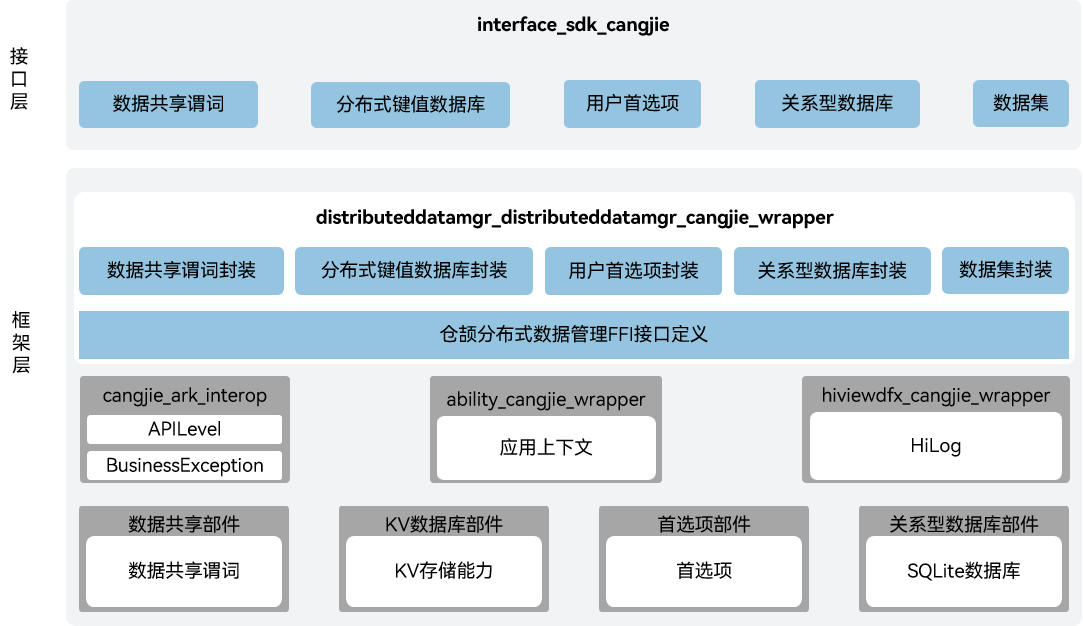
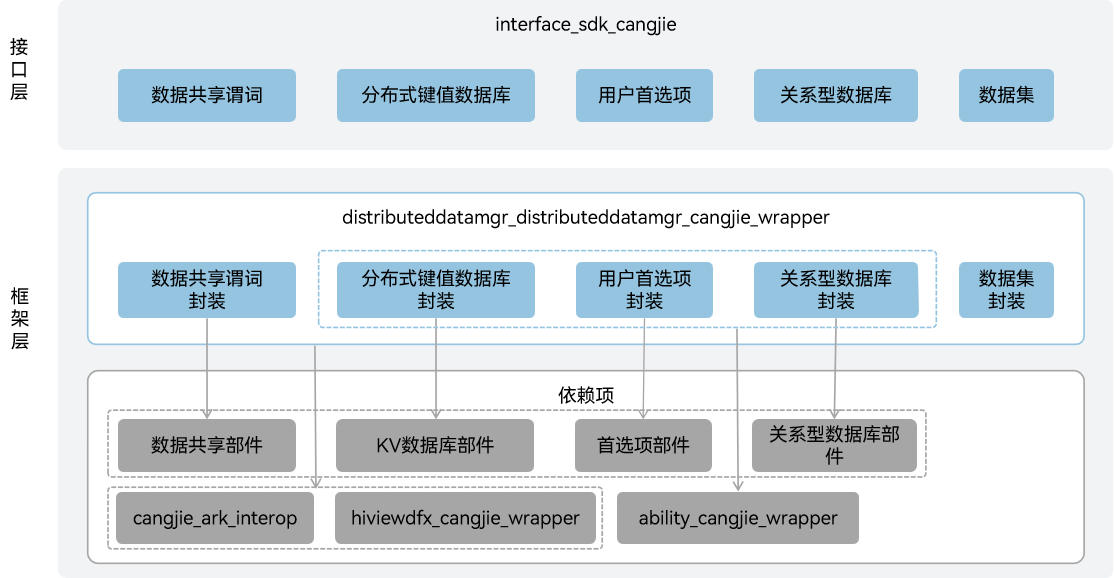
fix readme

diff --git a/README_zh.md b/README_zh.md
@@ -1,30 +1,42 @@
-# 分布式数据管理仓颉接口
+# 分布式数据管理仓颉封装
 
 ## 简介
 
-分布式数据管理仓颉接口是在OpenHarmony上基于分布式数据管理子系统能力之上封装的仓颉API。分布式数据管理子系统支持单设备的各种结构化数据的持久化，以及跨设备之间数据的同步、共享功能。开发者通过分布式数据管理仓颉，能够方便地完成应用程序数据在不同终端设备间的无缝衔接，满足用户跨设备使用数据的一致性体验。当前开发的分布式数据管理仓颉接口仅支持standard设备。
+分布式数据管理仓颉封装是在OpenHarmony上面对开发者使用仓颉语言进行应用开发时提供的各种结构化数据的持久化，以及跨设备之间数据的同步、共享功能。开发者通过分布式数据管理仓颉封装，能够方便地完成应用程序数据在不同终端设备间的无缝衔接，满足用户跨设备使用数据的一致性体验。当前开发的分布式数据管理仓颉封装仅支持standard设备。
 
 ## 系统架构
 
-![分布式数据管理仓颉接口架构图](figures/distributeddatamgr_cangjie_wrapper_architecture.png)
+**图 1**  分布式数据管理仓颉封装架构图
 
-**图 1**  分布式数据管理仓颉接口架构图
+![分布式数据管理仓颉封装架构图](figures/distributeddatamgr_cangjie_wrapper_architecture.png)
 
 如架构图所示：
 
-- 数据共享谓词：提供用于实现不同查询方法的数据共享谓词。
-- 分布式键值数据库：提供不同设备间数据库的分布式协同能力。
-- 用户首选项：提供Key-Value键值型的数据处理能力。
-- 关系型数据库：提供了一套完整的本地数据库管理机制。
-- 数据集：提供向数据库插入的数据集合。
-- 分布式数据管理FFI接口定义：定义C语言互操作仓颉接口，用于实现仓颉分布式数据管理能力。
-- 数据共享部件：提供数据共享谓词能力，封装C语言接口提供给仓颉进行互操作。
-- KV数据库部件：提供不同设备间数据库的分布式协同能力 ，封装C语言接口提供给仓颉进行互操作。
-- 首选项部件：提供Key-Value键值型的数据处理能力，封装C语言接口提供给仓颉进行互操作。
-- 关系型数据库部件：提供本地数据库管理机制，封装C语言接口提供给仓颉进行互操作。
-- ability_cangjie_wrapper：负责提供应用上下文接口，用于访问当前应用的数据库资源等。
-- hiviewdfx_cangjie_wrapper：负责提供日志接口，用于在关键路径打印日志。
-- cangjie_ark_interop：负责提供仓颉注解定义，用于对API进行标注，以及提供抛向用户的BusinessException异常类定义。
+接口层：
+
+- 数据共享谓词：面向开发者提供用于实现不同查询方法的数据共享谓词。
+- 分布式键值数据库：面向开发者提供键值对数据管理能力。
+- 用户首选项：面向开发者提供轻量级Key-Value操作，支持本地应用存储少量数据。
+- 关系型数据库：面向开发者提供了一套基于SQLite组件的完整的对本地数据库进行管理的机制。
+- 数据集：面向开发者提供可向数据库插入的数据集合。
+
+框架层：
+
+- 数据共享谓词封装：基于底层数据共享部件，实现了查询数据库中数据所使用的筛选条件即谓词，利用谓词可以进行数据的更新、删除和查询。
+- 分布式键值数据库封装：基于底层KV数据库部件，实现不同设备间数据库的分布式协同能力，能够将数据保存到分布式键值数据库中，并可对分布式键值数据库中的数据进行增加、删除、修改、查询、端端同步等操作。
+- 用户首选项封装：基于底层首选项部件，实现Key-Value键值型的数据处理能力，支持持久化轻量级数据，并对其修改和查询。。
+- 关系型数据库封装：基于底层关系型数据库部件，实现了一种基于关系模型来管理数据的数据库，提供了一系列的增、删、改、查等接口，也可以直接运行用户输入的SQL语句来满足复杂的场景需要。
+- 数据集封装：实现了仓颉应用向数据库插入的数据集合。
+
+架构图中依赖部件引入说明：
+
+- 数据共享部件：数据共享谓词封装依赖数据共享部件，用于实现查询数据库中数据所使用的筛选条件。
+- KV数据库部件：分布式键值数据库封装依赖KV数据库部件，用于实现不同设备间数据库的分布式协同能力。
+- 首选项部件：用户首选项封装依赖首选项部件，用于实现轻量级的本地Key-Value键值型的数据处理能力。
+- 关系型数据库部件：关系型数据库封装依赖关系型数据库部件，用于实现本地关系型数据库管理机制。
+- ability_cangjie_wrapper：分布式键值数据库封装、用户首选项封装以及关系型数据库封装依赖ability_cangjie_wrapper的应用上下文能力，用于访问当前应用的数据库资源等。
+- hiviewdfx_cangjie_wrapper：依赖hiviewdfx_cangjie_wrapper提供的HiLog日志能力，用于在关键路径打印日志。
+- cangjie_ark_interop：依赖cangjie_ark_interop提供的仓颉注解类定义和BusinessException异常类定义，用于对API进行标注，及在错误分支向用户抛出异常。
 
 ## 目录
 
@@ -51,13 +63,25 @@ foundation/communication/netmanager_cangjie_wrapper
 
 ## 使用说明
 
-如架构图所示，分布式数据管理仓颉接口提供了以下功能：
+如架构图所示，分布式数据管理仓颉封装提供了以下功能：
 
 - 数据共享谓词。
 - 分布式键值数据库。
 - 用户首选项。
 - 关系型数据库。
 - 数据集。
+
+分布式数据管理相关接口请参见
+
+1. [数据共享谓词API文档](https://gitcode.com/openharmony-sig/arkcompiler_cangjie_ark_interop/blob/master/doc/API_Reference/source_zh_cn/apis/ArkData/cj-apis-data_share_predicates.md)
+2. [分布式键值数据库API文档](https://gitcode.com/openharmony-sig/arkcompiler_cangjie_ark_interop/blob/master/doc/API_Reference/source_zh_cn/apis/ArkData/cj-apis-distributed_kv_store.md)
+3. [用户首选项API文档](https://gitcode.com/openharmony-sig/arkcompiler_cangjie_ark_interop/blob/master/doc/API_Reference/source_zh_cn/apis/ArkData/cj-apis-preferences.md)
+4. [关系型数据库API文档](https://gitcode.com/openharmony-sig/arkcompiler_cangjie_ark_interop/blob/master/doc/API_Reference/source_zh_cn/apis/ArkData/cj-apis-relational_store.md)
+5. [数据集API文档](https://gitcode.com/openharmony-sig/arkcompiler_cangjie_ark_interop/blob/master/doc/API_Reference/source_zh_cn/apis/ArkData/cj-apis-values_bucket.md)
+
+相关开发指导请参见[分布式数据管理开发指南](https://gitcode.com/openharmony-sig/arkcompiler_cangjie_ark_interop/blob/master/doc/Dev_Guide/source_zh_cn/database)
+
+## 约束
 
 与ArkTS提供的API能力相比，暂不支持以下功能：
 
@@ -75,16 +99,7 @@ foundation/communication/netmanager_cangjie_wrapper
 - 端云服务。
 - 端云共享Extension。
 - 数据共享结果集。
-
-分布式数据管理相关接口请参见
-
-1. [数据共享谓词API文档](https://gitcode.com/openharmony-sig/arkcompiler_cangjie_ark_interop/blob/master/doc/API_Reference/source_zh_cn/apis/ArkData/cj-apis-data_share_predicates.md)
-2. [分布式键值数据库API文档](https://gitcode.com/openharmony-sig/arkcompiler_cangjie_ark_interop/blob/master/doc/API_Reference/source_zh_cn/apis/ArkData/cj-apis-distributed_kv_store.md)
-3. [用户首选项API文档](https://gitcode.com/openharmony-sig/arkcompiler_cangjie_ark_interop/blob/master/doc/API_Reference/source_zh_cn/apis/ArkData/cj-apis-preferences.md)
-4. [关系型数据库API文档](https://gitcode.com/openharmony-sig/arkcompiler_cangjie_ark_interop/blob/master/doc/API_Reference/source_zh_cn/apis/ArkData/cj-apis-relational_store.md)
-5. [数据集API文档](https://gitcode.com/openharmony-sig/arkcompiler_cangjie_ark_interop/blob/master/doc/API_Reference/source_zh_cn/apis/ArkData/cj-apis-values_bucket.md)
-
-相关开发指导请参见[分布式数据管理开发指南](https://gitcode.com/openharmony-sig/arkcompiler_cangjie_ark_interop/blob/master/doc/Dev_Guide/source_zh_cn/database)
+- 剪贴板。
 
 ## 参与贡献
 

diff --git a/README.md b/README.md
@@ -1,30 +1,39 @@
-# distributeddatamgr_cangjie_wrapper
+# distributeddatamgr_distributeddatamgr_cangjie_wrapper
 
 ## Introduction
 
-The distributeddatamgr_cangjie_wrapper is a Cangjie API encapsulated on OpenHarmony based on the capabilities of the DistributedDataManager Subsystem. The DistributedDataManager subsystem implements persistence of a variety of structured data on a single device and data sync and sharing across devices. It allows application data to be seamlessly processed across devices, ensuring consistent user experience for the same application across devices.The distributeddatamgr cangjie interface currently under development only supports standard devices.
+The distributeddatamgr_distributeddatamgr_cangjie_wrapper is a capability provided on OpenHarmony for developers using the Cangjie programming language to develop applications. It enables the persistence of various structured data, as well as the synchronization and sharing of data across devices. By leveraging the Cangjie-encapsulated distributed data management, developers can easily achieve seamless connection of application data across different terminal devices, satisfying users' need for a consistent experience when using data across devices.The distributeddatamgr_distributeddatamgr_cangjie_wrapper currently under development only supports standard devices.
 
 ## System Architecture
 
-![Architecture of the distributeddatamgr_cangjie_wrapper](figures/distributeddatamgr_cangjie_wrapper_architecture_en.png)
+**Figure 1** distributeddatamgr_cangjie_wrapper architecture
 
-**Figure 1** Architecture of the distributeddatamgr_cangjie_wrapper
+![Architecture of the distributeddatamgr_distributeddatamgr_cangjie_wrapper](figures/distributeddatamgr_cangjie_wrapper_architecture_en.png)
 
 As shown in the architecture diagram:
 
-- DataShare Predicates: Provide data sharing predicates for implementing different query methods.
-- Distributed KV Store: Provide distributed collaboration capabilities for databases between different devices.
-- User Preferences: Provide Key-Value type data processing capabilities.
-- RDB Store: Provide a complete mechanism for managing local databases.
-- Value Bucket: Provide a collection of data to be inserted into the database.
-- Cangjie distributed data management FFI interface definition: Define C language interoperability Cangjie interfaces, used to implement Cangjie distributed data management capabilities.
-- data_share: Provide data sharing predicate capabilities, encapsulating C interfaces for interoperation with Cangjie.
-- kv_store: Provide distributed collaboration capabilities for databases between different devices, encapsulating C interfaces for interoperation with Cangjie.
-- preferences: Provide Key-Value type data processing capabilities, encapsulating C interfaces for interoperation with Cangjie.
-- relational_store: Provide local database management mechanisms, encapsulating C interfaces for interoperation with Cangjie.
-- ability_cangjie_wrapper: Responsible for providing UiAbilityContext, which is used to access the current application's database resources.
-- hiviewdfx_cangjie_wrapper: Provides logging interfaces for printing logs on critical paths.
-- cangjie_ark_interop: Provides Cangjie annotation definitions for API annotation and BusinessException exception class definition for user-facing exceptions.
+Interface Layer:
+- DataShare Predicates: Provides developers with data sharing predicates for implementing different query methods.
+- Distributed KV Store: Offers developers the capability to manage key-value pair data.
+- User Preferences: Supplies developers with lightweight Key-Value operations, supporting local applications in storing small amounts of data.
+- RDB Store: Provides developers with a complete mechanism for managing local databases based on the SQLite component.
+- Value Bucket: Gives developers data collections that can be inserted into the database.
+
+Framework Layer:
+- DataShare Predicates Wrapper: Based on the underlying data_share, it implements predicates—filter conditions used for querying data in the database. Predicates can be used to update, delete, and query data.
+- Distributed KV Store Wrapper: Built on the underlying kv_store, it enables distributed collaboration capabilities for databases across different devices. It allows data to be stored in the distributed key-value database and supports operations such as adding, deleting, modifying, querying, and end-to-end synchronization of data in the distributed key-value database.
+- User Preferences Wrapper: Relying on the underlying preferences, it realizes Key-Value data processing capabilities, supporting persistent storage of lightweight data as well as modification and query of such data.
+- RDB Store Wrapper: Based on the underlying relational_store, it implements a database that manages data using a relational model. It provides a series of interfaces for adding, deleting, modifying, and querying data, and also allows direct execution of user-input SQL statements to meet the needs of complex scenarios.
+- Value Bucket Wrapper: Implements data collections that Cangjie applications can insert into the database.
+
+Dependencies Introduction in Architecture:
+- data_share: The DataShare Predicates Wrapper depends on the data_share, which is used to implement the filter conditions for querying data in the database.
+- kv_store: The Distributed KV Store Wrapper relies on the kv_store to achieve distributed collaboration capabilities for databases across different devices.
+- preferences: The User Preferences Wrapper depends on the preferences, which is used to implement lightweight local Key-Value data processing capabilities.
+- relational_store: The RDB Store Wrapper relies on the relational_store to implement the local relational database management mechanism.
+- ability_cangjie_wrapper: The Distributed KV Store Wrapper, User Preferences Wrapper, and RDB Store Wrapper depend on the application context capability of ability_cangjie_wrapper, which is used for accessing database resources of the current application, among other purposes.
+- hiviewdfx_cangjie_wrapper: Depends on HiLog capabilities for printing logs at key points.
+- cangjie_ark_interop: Depends on APILevel class definitions and BusinessException class definitions for API annotation and throwing exceptions to users in error branches.
 
 ## Directory Structure
 
@@ -85,6 +94,26 @@ For distributed data management related APIs, please refer to:
 5. [ohos.data.values_bucket](https://gitcode.com/openharmony-sig/arkcompiler_cangjie_ark_interop/blob/master/doc/API_Reference/source_en/apis/ArkData/cj-apis-values_bucket.md)
 
 For related guidance, please refer to [Distributed Data Management Development Guide](https://gitcode.com/openharmony-sig/arkcompiler_cangjie_ark_interop/blob/master/doc/Dev_Guide/source_en/database)
+
+## Constraints
+
+Compared to ArkTS API, the following functions are not supported:
+
+- Common Data Types.
+- DataAbility Predicates.
+- DataShare.
+- Distributed Data Object.
+- Shared User Preferences.
+- Shared RDB Store.
+- Unified Data Channel.
+- Uniform Data Structs.
+- Uniform Data Definition and Description.
+- ArkData Intelligence Platform.
+- DataShare ExtensionAbility.
+- Device-Cloud Service.
+- Device-Cloud Sharing Extension.
+- DataShare Result Set.
+- Pasteboard.
 
 ## Code Contribution
 
